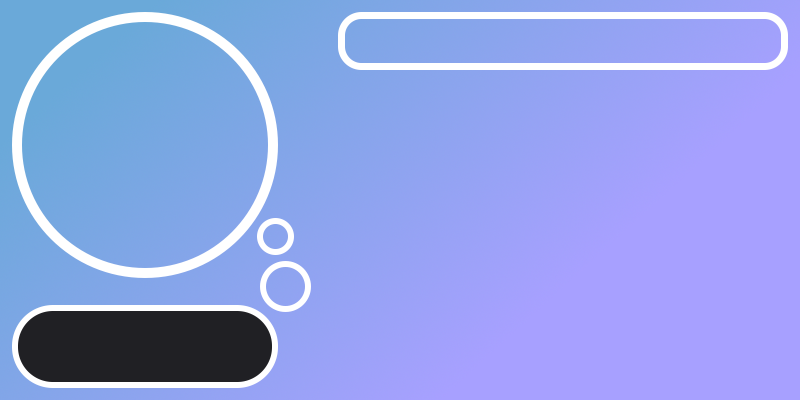
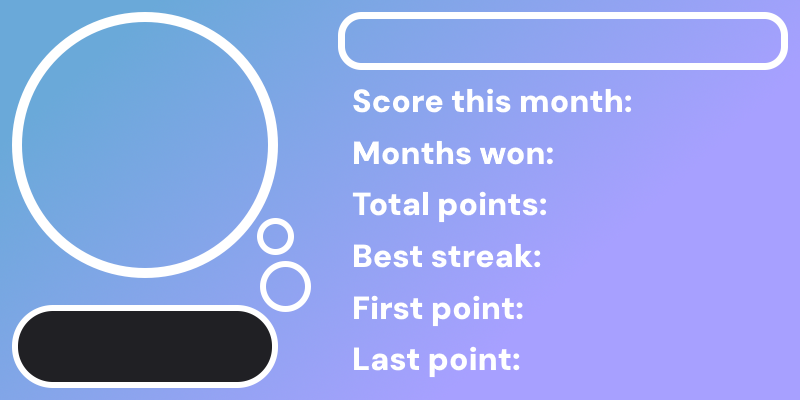
Added in the rest of the First rank card

diff --git a/commands/first.py b/commands/first.py
@@ -63,10 +63,9 @@ async def _rank(ctx: cmds.Context, user: discord.User=None):
     else:
         if str(user.id) not in game['statistics']: return await ctx.reply(f"<@{user.id} hasn't place in this server's First game!", silent=True, allowed_mentions=none)
 
-    # Anchor points:
-    # Name: 352, 19
-    # Place: 262, 20 | (262, 28) > (67, 25); 296x 20y
+    response = await ctx.reply("> Loading...", silent=True, allowed_mentions=none)
 
+    # Stream in the image data of the user's icon via requests and BytesIO, resize, and trim border into a circle.
     session = requests.session()
     try: icon = Image.open(io.BytesIO(session.get(user.avatar.url, stream=True).content))
     except: icon = Image.open("./http/res/images/404.png")
@@ -75,21 +74,36 @@ async def _rank(ctx: cmds.Context, user: discord.User=None):
     mask_draw.circle(xy=(116,116), radius=116, fill=255)
     icon.putalpha(mask)
 
+    # Gather strings for drawing.
+    wins             = str(game['statistics'][str(user.id)]['wins'])
+    points           = str(game['statistics'][str(user.id)]['points'])
+    total_points     = str(game['statistics'][str(user.id)]['totalPoints'])
+    best_streak      = str(game['statistics'][str(user.id)]['bestStreak'])
+    first_point      =     game['statistics'][str(user.id)]['firstPoint']
+    last_point       =     game['statistics'][str(user.id)]['lastPoint']
+    last_win_message =     game['statistics'][str(user.id)]['lastWinMessage']
+
+    # Sort players to find the rank of the selected user.
     sorted_stats = dict(sorted(game['statistics'].items(), key=lambda x: (x[1]['wins'], x[1]['totalPoints']), reverse=True))
     place = f"#{[_ for _ in sorted_stats].index(str(user.id)) + 1}"
 
-    base = Image.open("./games/first/resources/user_card.png").convert("RGBA"); draw = ImageDraw.Draw(base)
-
-    base.paste(icon, (29,29, 29+232,29+232), icon)
-
-    _, _, w, h = draw.textbbox((0,0), text=place, font=Font.dm_sans_24)
-    draw.text(text=place,     xy=(262+34-(w/2), 20), fill=Font.white, font=Font.dm_sans_24)
-    draw.text(text=user.name, xy=(352, 19),          fill=Font.white, font=Font.dm_sans_24)
+    # Open the base card.
+    card = Image.open("./games/first/resources/user_card.png").convert("RGBA"); draw = ImageDraw.Draw(card)
+    card.paste(icon, (29,29, 29+232,29+232), icon) # Put player's icon.
+    _, _, w, h = draw.textbbox   ((0,0), text=place, font=Font.dm_sans_24) # Used to center the text of the placement (#1 or #28).
+    draw.text(text=place,        xy=(262+34-(w/2), 20), fill=Font.white, font=Font.dm_sans_24) # Center placement text with X + dX/2 - w/2, where dX is the width of the container you center inside of.
+    draw.text(text=user.name,    xy=(352, 19),          fill=Font.white, font=Font.dm_sans_24)
+    draw.text(text=points,       xy=(640, 80),          fill=Font.white, font=Font.dm_sans_24)
+    draw.text(text=wins,         xy=(561, 132),         fill=Font.white, font=Font.dm_sans_24)
+    draw.text(text=total_points, xy=(555, 183),         fill=Font.white, font=Font.dm_sans_24)
+    draw.text(text=best_streak,  xy=(549, 235),         fill=Font.white, font=Font.dm_sans_24)
+    draw.text(text=first_point,  xy=(531, 287),         fill=Font.white, font=Font.dm_sans_24)
+    draw.text(text=last_point,   xy=(528, 338),         fill=Font.white, font=Font.dm_sans_24)
 
     with io.BytesIO() as bytesIO:
-        base.save(bytesIO, 'PNG')
+        card.save(bytesIO, 'PNG')
         bytesIO.seek(0)
-        await ctx.reply('', file=discord.File(bytesIO, filename='card.png'), silent=True, allowed_mentions=none)
+        await response.edit(content='', attachments=[discord.File(bytesIO, filename='card.png')], allowed_mentions=none)
 
 
 @first.command(name="start")
@@ -218,7 +232,8 @@ async def build_statistics(channel: discord.TextChannel, timezone: str, start_da
                 "totalPoints": 0,
                 "bestStreak":  0,
                 "firstPoint":  str(curr_date),
-                "lastPoint":   str(curr_date)
+                "lastPoint":   str(curr_date),
+                "lastWinMessage": ""
             }
         else: user = game['statistics'][message.author.id]
 
@@ -228,6 +243,7 @@ async def build_statistics(channel: discord.TextChannel, timezone: str, start_da
         user['points'] += 1
         user['totalPoints'] += 1
         user['bestStreak'] = max(user['bestStreak'], game['currentStreak'])
+        user['lastWinMessage'] = message.clean_content
 
         game['statistics'][message.author.id] = user
 
